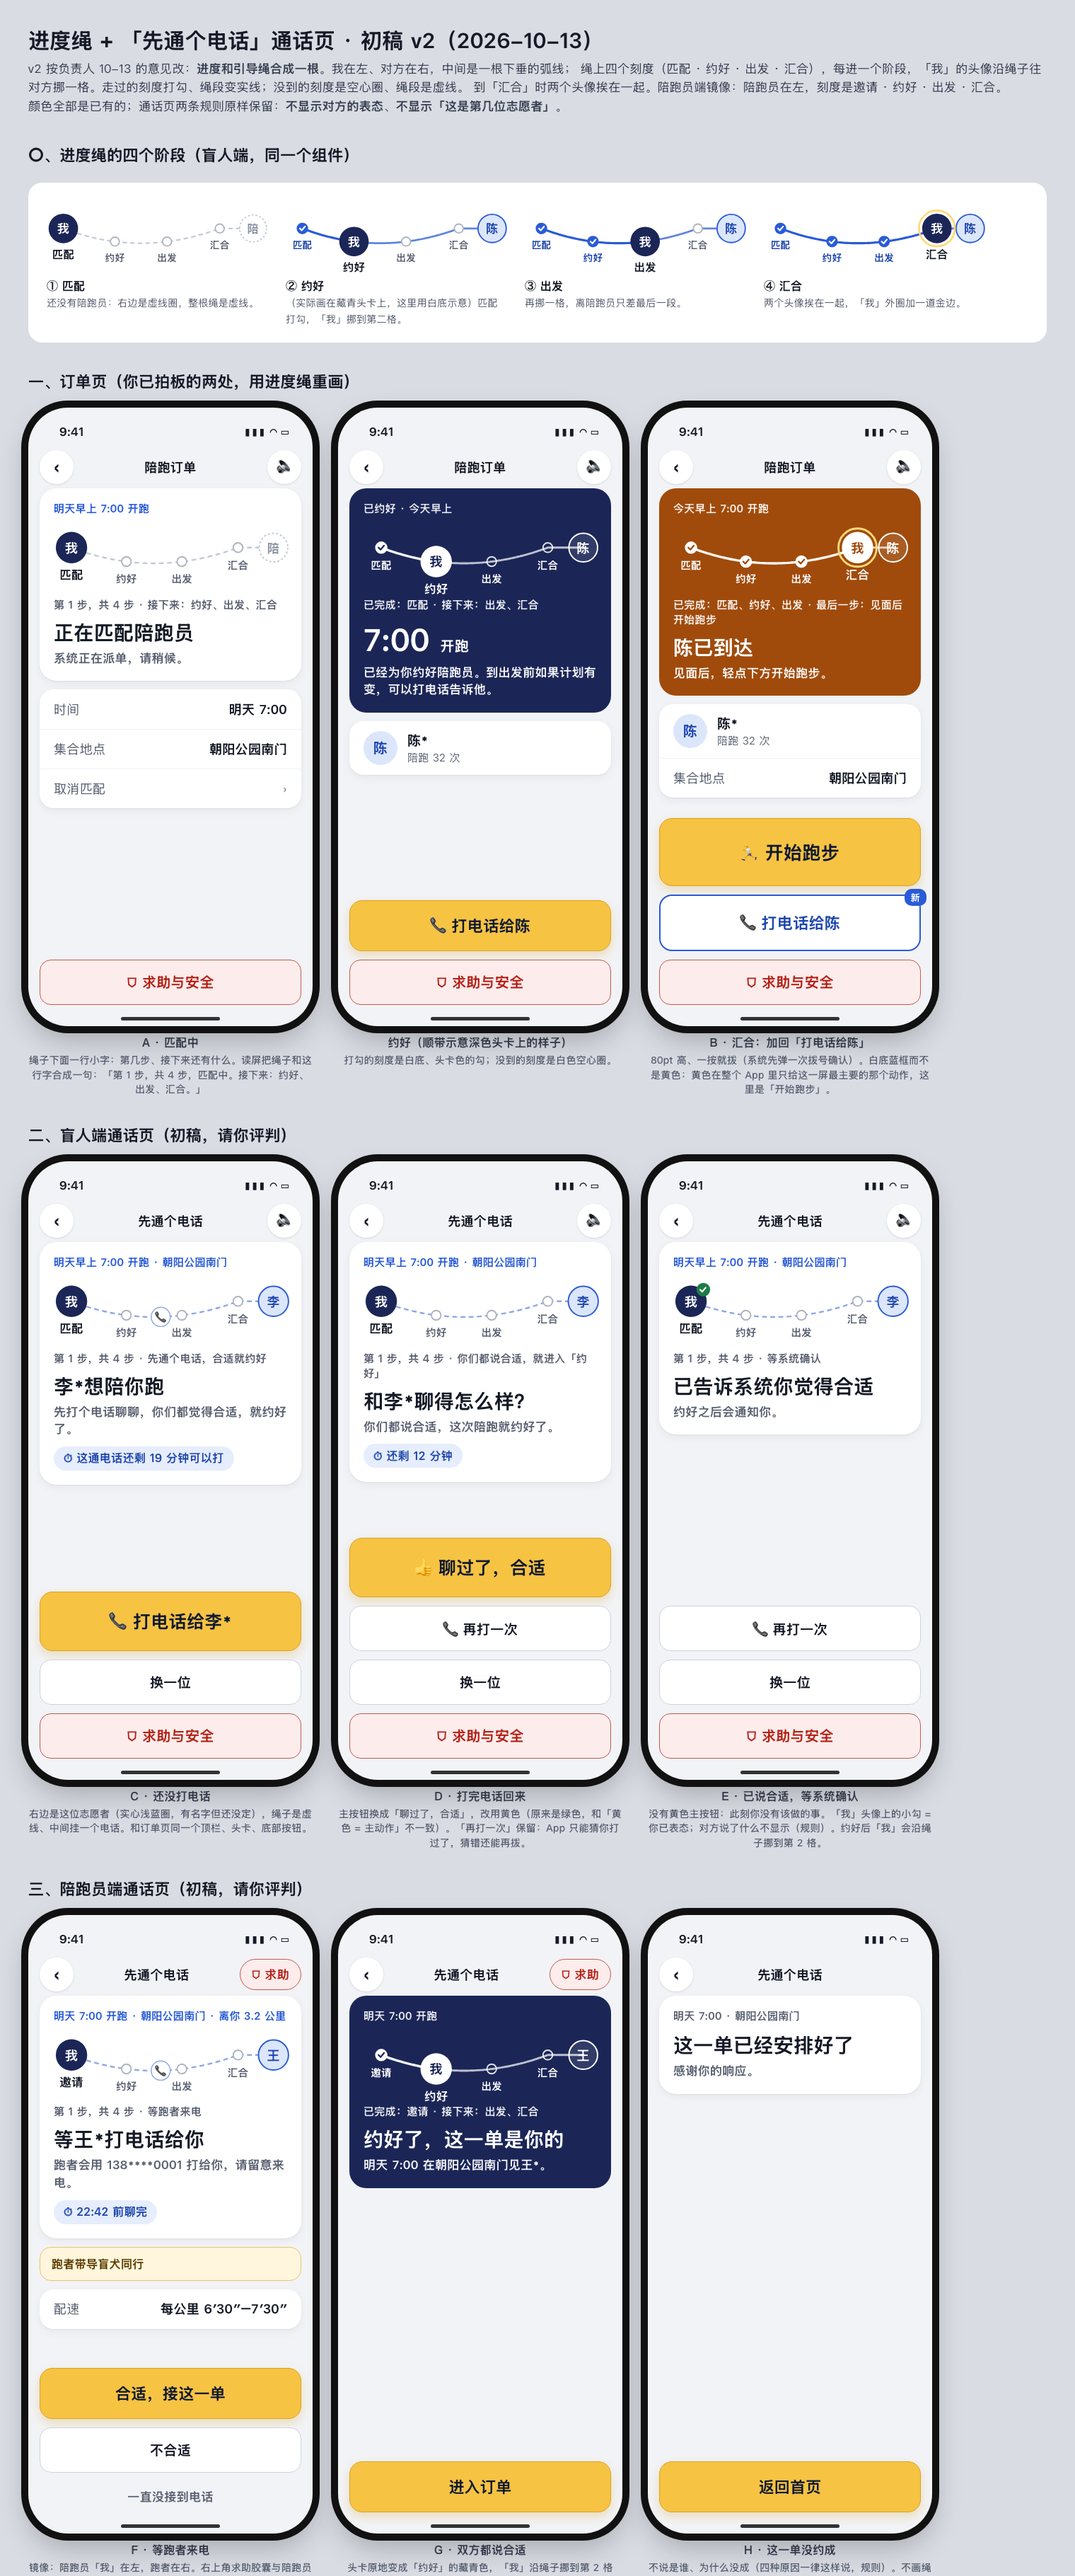
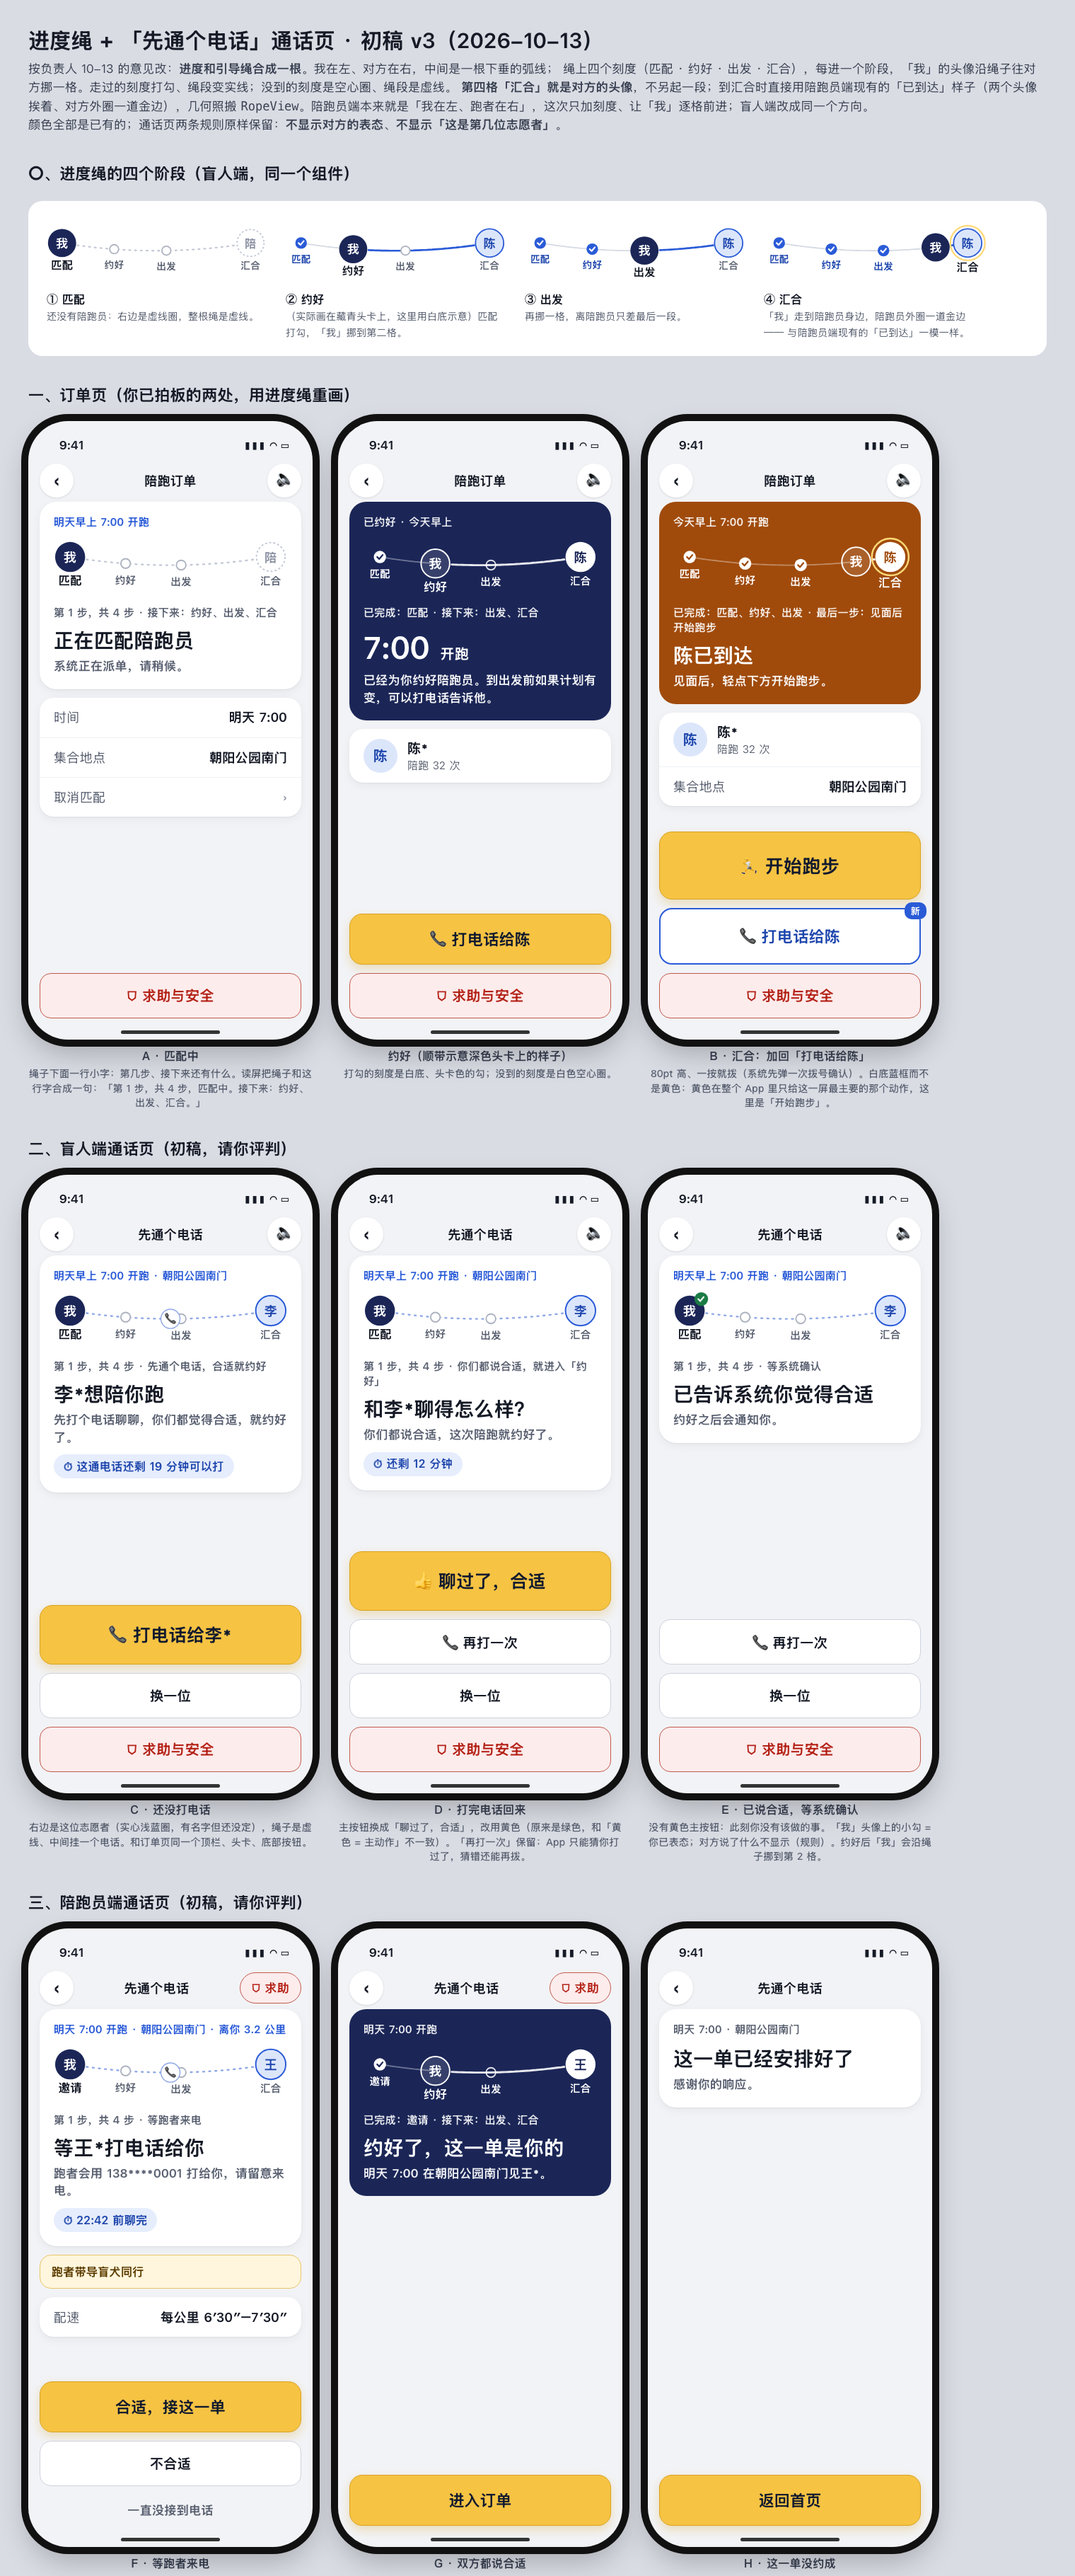
docs: 初稿 v3 —— 汇合格即对方头像，汇合样子与几何照搬 RopeView 的「已到达」

Changed region(s): [[0.0309, 0.0, 0.9895, 1.0], [0.8967, 0.0, 0.9276, 0.031], [0.8039, 0.4967, 0.8349, 0.5277]]

diff --git a/docs/ui/mockups/intro-call-20261013/draft.html b/docs/ui/mockups/intro-call-20261013/draft.html
@@ -58,10 +58,10 @@ svg.rope{display:block;width:100%;overflow:visible;margin:12px 0 2px}
 .note{font-size:14px;color:#3a4152;line-height:1.55;margin-top:24px;max-width:1300px}
 </style></head><body>
 
-<h1>进度绳 + 「先通个电话」通话页 · 初稿 v2（2026-10-13）</h1>
-<p class="sub">v2 按负责人 10-13 的意见改：<b>进度和引导绳合成一根</b>。我在左、对方在右，中间是一根下垂的弧线；
+<h1>进度绳 + 「先通个电话」通话页 · 初稿 v3（2026-10-13）</h1>
+<p class="sub">按负责人 10-13 的意见改：<b>进度和引导绳合成一根</b>。我在左、对方在右，中间是一根下垂的弧线；
 绳上四个刻度（匹配 · 约好 · 出发 · 汇合），每进一个阶段，「我」的头像沿绳子往对方挪一格。走过的刻度打勾、绳段变实线；没到的刻度是空心圈、绳段是虚线。
-到「汇合」时两个头像挨在一起。陪跑员端镜像：陪跑员在左，刻度是邀请 · 约好 · 出发 · 汇合。<br>
+<b>第四格「汇合」就是对方的头像</b>，不另起一段；到汇合时直接用陪跑员端现有的「已到达」样子（两个头像挨着、对方外圈一道金边），几何照搬 <code>RopeView</code>。陪跑员端本来就是「我在左、跑者在右」，这次只加刻度、让「我」逐格前进；盲人端改成同一个方向。<br>
 颜色全部是已有的；通话页两条规则原样保留：<b>不显示对方的表态</b>、<b>不显示「这是第几位志愿者」</b>。</p>
 
 <h2>〇、进度绳的四个阶段（盲人端，同一个组件）</h2>
@@ -69,7 +69,7 @@ svg.rope{display:block;width:100%;overflow:visible;margin:12px 0 2px}
  <div class="item"><svg class="rope" data-rope='{"cur":0,"theme":"light","other":"陪","otherState":"none"}'></svg><b>① 匹配</b><span>还没有陪跑员：右边是虚线圈，整根绳是虚线。</span></div>
  <div class="item"><svg class="rope" data-rope='{"cur":1,"theme":"light","other":"陈","otherState":"set"}'></svg><b>② 约好</b><span>（实际画在藏青头卡上，这里用白底示意）匹配打勾，「我」挪到第二格。</span></div>
  <div class="item"><svg class="rope" data-rope='{"cur":2,"theme":"light","other":"陈","otherState":"set"}'></svg><b>③ 出发</b><span>再挪一格，离陪跑员只差最后一段。</span></div>
- <div class="item"><svg class="rope" data-rope='{"cur":3,"theme":"light","other":"陈","otherState":"set"}'></svg><b>④ 汇合</b><span>两个头像挨在一起，「我」外圈加一道金边。</span></div>
+ <div class="item"><svg class="rope" data-rope='{"cur":3,"theme":"light","other":"陈","otherState":"set"}'></svg><b>④ 汇合</b><span>「我」走到陪跑员身边，陪跑员外圈一道金边 —— 与陪跑员端现有的「已到达」一模一样。</span></div>
 </div>
 
 <h2>一、订单页（你已拍板的两处，用进度绳重画）</h2>
@@ -175,40 +175,49 @@ svg.rope{display:block;width:100%;overflow:visible;margin:12px 0 2px}
 最大字号下刻度文字会变大，绳子按宽度等比放大，「第几步」那行字换行，信息不截断。「减弱动态效果」打开时头像直接跳到下一格，不做滑动。</p>
 
 <script>
-// 进度绳：我在左、对方在右；四个刻度在二次曲线上，「我」停在当前刻度。
-function quad(t,p0,c,p2){const u=1-t;return [u*u*p0[0]+2*u*t*c[0]+t*t*p2[0], u*u*p0[1]+2*u*t*c[1]+t*t*p2[1]];}
+// 进度绳 v3：几何照搬 RopeView.swift 的 RopeGeometry（342 宽、头像半径 22、对方停在 x=318、
+// 「已到达」时「我」停在 268 并给对方加金边）。新增的只有两样：绳上的四个刻度、「我」每进一个阶段挪一格。
+// 四个停靠点 24 / 105 / 187 / 268 正好等距；第四格「汇合」就是对方的头像本身，不另画刻度。
+const SAG=24, X0=24, X1=318, Y=28;
+function yAt(x){const t=(x-X0)/(X1-X0);return Y+2*t*(1-t)*SAG;}   // RopeShape：控制点在中点、下垂 sag
+function curve(a,b){let d='';for(let i=0;i<=40;i++){const x=a+(b-a)*i/40;d+=(i?'L':'M')+x.toFixed(1)+' '+yAt(x).toFixed(1)+' ';}return d;}
+const STOPS=[24,105.3,186.7,268];
 document.querySelectorAll('svg[data-rope]').forEach(svg=>{
   const o=JSON.parse(svg.dataset.rope); const dark=o.theme==='dark'; const hero=o.hero||'#2A5BD7';
-  const labels=o.labels||['匹配','约好','出发','汇合'];
-  const P0=[26,34],C=[146,80],P2=[270,34]; const ts=[0,1/3,2/3,1];
-  const pts=ts.map(t=>quad(t,P0,C,P2)); const cur=o.cur;
-  svg.setAttribute('viewBox','0 0 342 104');
-  let h='';
-  const solid=dark?'rgba(255,255,255,.95)':'#2A5BD7', ahead=dark?'rgba(255,255,255,.55)':(o.otherState==='none'?'#C3C9D5':'#8FA8E6');
-  const N=60; let doneD='',aheadD='';
-  for(let i=0;i<=N;i++){const t=i/N;const [x,y]=quad(t,P0,C,P2);if(t<=ts[cur]+1e-6) doneD+=(doneD?'L':'M')+x.toFixed(1)+' '+y.toFixed(1)+' ';}
-  for(let i=0;i<=N;i++){const t=ts[cur]+(1-ts[cur])*i/N;const [x,y]=quad(t,P0,C,P2);aheadD+=(i===0?'M':'L')+x.toFixed(1)+' '+y.toFixed(1)+' ';}
-  if(cur>0) h+=`<path d="${doneD}" stroke="${solid}" stroke-width="3.5" fill="none" stroke-linecap="round"/>`;
+  const labels=o.labels||['匹配','约好','出发','汇合']; const cur=o.cur;
+  svg.setAttribute('viewBox','0 0 342 96');
+  const mx=STOPS[cur], my=yAt(mx);
   const agreed=o.otherState==='set';
-  h+=`<path d="${aheadD} L 322 34" stroke="${agreed?solid:ahead}" stroke-width="${agreed?3:2.5}" fill="none" stroke-linecap="round" ${agreed?'':'stroke-dasharray="5 7"'} opacity="${agreed?0.75:1}"/>`;
-  pts.forEach((p,i)=>{
-    const [x,y]=p; const done=i<cur, isCur=i===cur;
-    if(!isCur){
-      if(done){h+=`<circle cx="${x}" cy="${y}" r="9" fill="${dark?'#fff':'#2A5BD7'}"/><path d="M${x-4} ${y} l3 3 l5 -6" stroke="${dark?hero:'#fff'}" stroke-width="2.4" fill="none" stroke-linecap="round" stroke-linejoin="round"/>`;}
-      else{h+=`<circle cx="${x}" cy="${y}" r="7" fill="${dark?'transparent':'#fff'}" stroke="${dark?'rgba(255,255,255,.85)':'#AEB4C0'}" stroke-width="2"/>`;}
-    }
+  const solid=dark?'rgba(255,255,255,.9)':'#2A5BD7';
+  const dash=dark?'rgba(255,255,255,.6)':(o.otherState==='none'?'#C3C9D5':'#8FA8E6');
+  const track=dark?'rgba(255,255,255,.35)':'#D5DAE3';
+  let h='';
+  // 走过的路：细的淡线（只为把打过勾的刻度串起来，主角仍是「我」到对方之间那根绳）
+  if(cur>0) h+=`<path d="${curve(X0,mx)}" stroke="${track}" stroke-width="2" fill="none" stroke-linecap="round"/>`;
+  // 还要走的路 = 引导绳本身：没约好虚线 [2,7]，约好实线（同 RopeGeometry.RopeStyle）
+  if(cur<3) h+=`<path d="${curve(mx+24,X1-24)}" stroke="${agreed?solid:dash}" stroke-width="${agreed?3:2.5}" fill="none" stroke-linecap="round" ${agreed?'':'stroke-dasharray="2 7"'}/>`;
+  else h+=`<path d="M290 ${yAt(290).toFixed(1)} L296 ${yAt(296).toFixed(1)}" stroke="${solid}" stroke-width="3"/>`;
+  // 前三格刻度（第四格是对方头像）
+  for(let i=0;i<3;i++){ if(i===cur) continue; const x=STOPS[i],y=yAt(x);
+    if(i<cur) h+=`<circle cx="${x}" cy="${y}" r="9" fill="${dark?'#fff':'#2A5BD7'}"/><path d="M${x-4} ${y} l3 3 l5 -6" stroke="${dark?hero:'#fff'}" stroke-width="2.4" fill="none" stroke-linecap="round" stroke-linejoin="round"/>`;
+    else h+=`<circle cx="${x}" cy="${y}" r="7" fill="${dark?'transparent':'#fff'}" stroke="${dark?'rgba(255,255,255,.85)':'#AEB4C0'}" stroke-width="2"/>`;
+  }
+  // 文字：前三格在各自刻度下，「汇合」在对方头像下
+  const lx=[STOPS[0],STOPS[1],STOPS[2],X1];
+  lx.forEach((x,i)=>{const isCur=i===cur, done=i<cur; const big=isCur||(i===3);
+    const y=(i===3?Y:yAt(x))+(big?40:30)+((i===3&&cur===3)?4:0);
     const col=dark?'#fff':(isCur?'#151A26':(done?'#1F47AD':'#5B6272'));
-    h+=`<text x="${x}" y="${y+(isCur?46:31)}" text-anchor="middle" font-size="${isCur?17:15}" font-weight="${isCur?800:700}" fill="${col}">${labels[i]}</text>`;
-  });
-  const ox=322, oy=34;
-  if(o.otherState==='none'){h+=`<circle cx="${ox}" cy="${oy}" r="21" fill="${dark?'transparent':'#fff'}" stroke="#C3C9D5" stroke-width="2" stroke-dasharray="3 3"/><text x="${ox}" y="${oy+7}" text-anchor="middle" font-size="18" font-weight="800" fill="#8A91A2">${o.other}</text>`;}
-  else if(o.otherState==='candidate' || !dark){h+=`<circle cx="${ox}" cy="${oy}" r="22" fill="#DCE6FB" stroke="#2A5BD7" stroke-width="2"/><text x="${ox}" y="${oy+7}" text-anchor="middle" font-size="19" font-weight="800" fill="#1F47AD">${o.other}</text>`;}
-  else{h+=`<circle cx="${ox}" cy="${oy}" r="21" fill="rgba(255,255,255,.1)" stroke="#fff" stroke-width="2"/><text x="${ox}" y="${oy+7}" text-anchor="middle" font-size="19" font-weight="800" fill="#fff">${o.other}</text>`;}
-  if(o.phone){const [px,py]=quad((ts[cur]+1)/2+0.04,P0,C,P2);h+=`<circle cx="${px}" cy="${py}" r="14" fill="#fff" stroke="#8FA8E6" stroke-width="1.5"/><text x="${px}" y="${py+5}" text-anchor="middle" font-size="13">📞</text>`;}
-  const [mx,my]=pts[cur];
-  if(cur===3) h+=`<circle cx="${mx}" cy="${my}" r="28" fill="none" stroke="#FFD978" stroke-width="3"/>`;
-  h+=`<circle cx="${mx}" cy="${my}" r="23" fill="${dark?'#fff':'#1B2657'}"/><text x="${mx}" y="${my+7}" text-anchor="middle" font-size="19" font-weight="800" fill="${dark?hero:'#fff'}">我</text>`;
-  if(o.meCheck) h+=`<circle cx="${mx+18}" cy="${my-17}" r="10" fill="#1C7C45"/><path d="M${mx+13.5} ${my-17} l3 3 l5 -6" stroke="#fff" stroke-width="2.2" fill="none" stroke-linecap="round"/>`;
+    h+=`<text x="${x}" y="${y}" text-anchor="middle" font-size="${isCur?17:15}" font-weight="${isCur?800:700}" fill="${col}">${labels[i]}</text>`;});
+  // 对方（x=318）：还没匹配 = 空心虚线圈；候选 / 约好 = 实心
+  if(cur===3) h+=`<circle cx="${X1}" cy="${Y}" r="27" fill="none" stroke="#FFD978" stroke-width="2.5"/>`;   // showsRunnerRing：54pt 金环
+  if(o.otherState==='none') h+=`<circle cx="${X1}" cy="${Y}" r="21" fill="${dark?'transparent':'#fff'}" stroke="#C3C9D5" stroke-width="2" stroke-dasharray="3 3"/><text x="${X1}" y="${Y+7}" text-anchor="middle" font-size="18" font-weight="800" fill="#8A91A2">${o.other}</text>`;
+  else if(dark) h+=`<circle cx="${X1}" cy="${Y}" r="22" fill="#fff"/><text x="${X1}" y="${Y+7}" text-anchor="middle" font-size="19" font-weight="800" fill="${hero}">${o.other}</text>`;
+  else h+=`<circle cx="${X1}" cy="${Y}" r="22" fill="#DCE6FB" stroke="#2A5BD7" stroke-width="2"/><text x="${X1}" y="${Y+7}" text-anchor="middle" font-size="19" font-weight="800" fill="#1F47AD">${o.other}</text>`;
+  if(o.phone){const px=(mx+X1)/2;h+=`<circle cx="${px}" cy="${yAt(px)}" r="14" fill="#fff" stroke="#8FA8E6" stroke-width="1.5"/><text x="${px}" y="${yAt(px)+5}" text-anchor="middle" font-size="13">📞</text>`;}
+  // 我
+  h+= dark?`<circle cx="${mx}" cy="${my}" r="21" fill="rgba(255,255,255,.12)" stroke="#fff" stroke-width="2"/><text x="${mx}" y="${my+7}" text-anchor="middle" font-size="19" font-weight="800" fill="#fff">我</text>`
+          :`<circle cx="${mx}" cy="${my}" r="22" fill="#1B2657"/><text x="${mx}" y="${my+7}" text-anchor="middle" font-size="19" font-weight="800" fill="#fff">我</text>`;
+  if(o.meCheck) h+=`<circle cx="${mx+17}" cy="${my-17}" r="10" fill="#1C7C45"/><path d="M${mx+12.5} ${my-17} l3 3 l5 -6" stroke="#fff" stroke-width="2.2" fill="none" stroke-linecap="round"/>`;
   svg.innerHTML=h;
 });
 </script>
